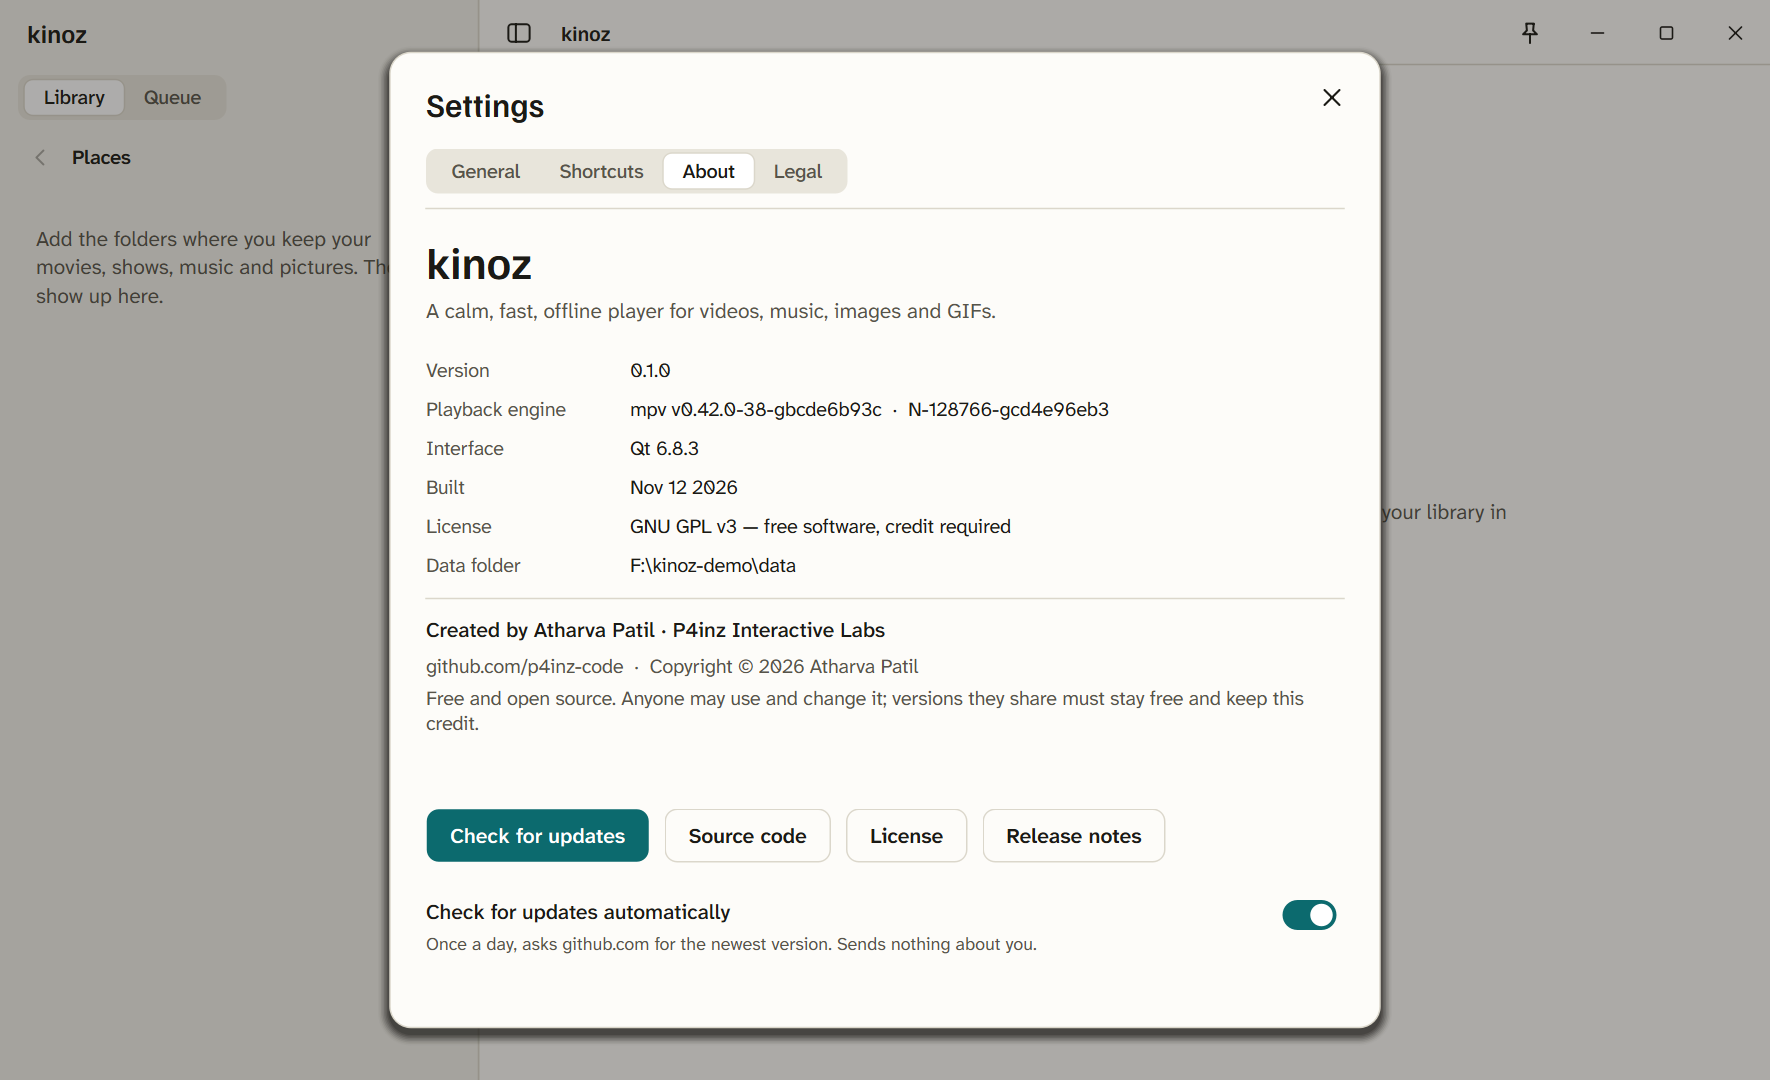
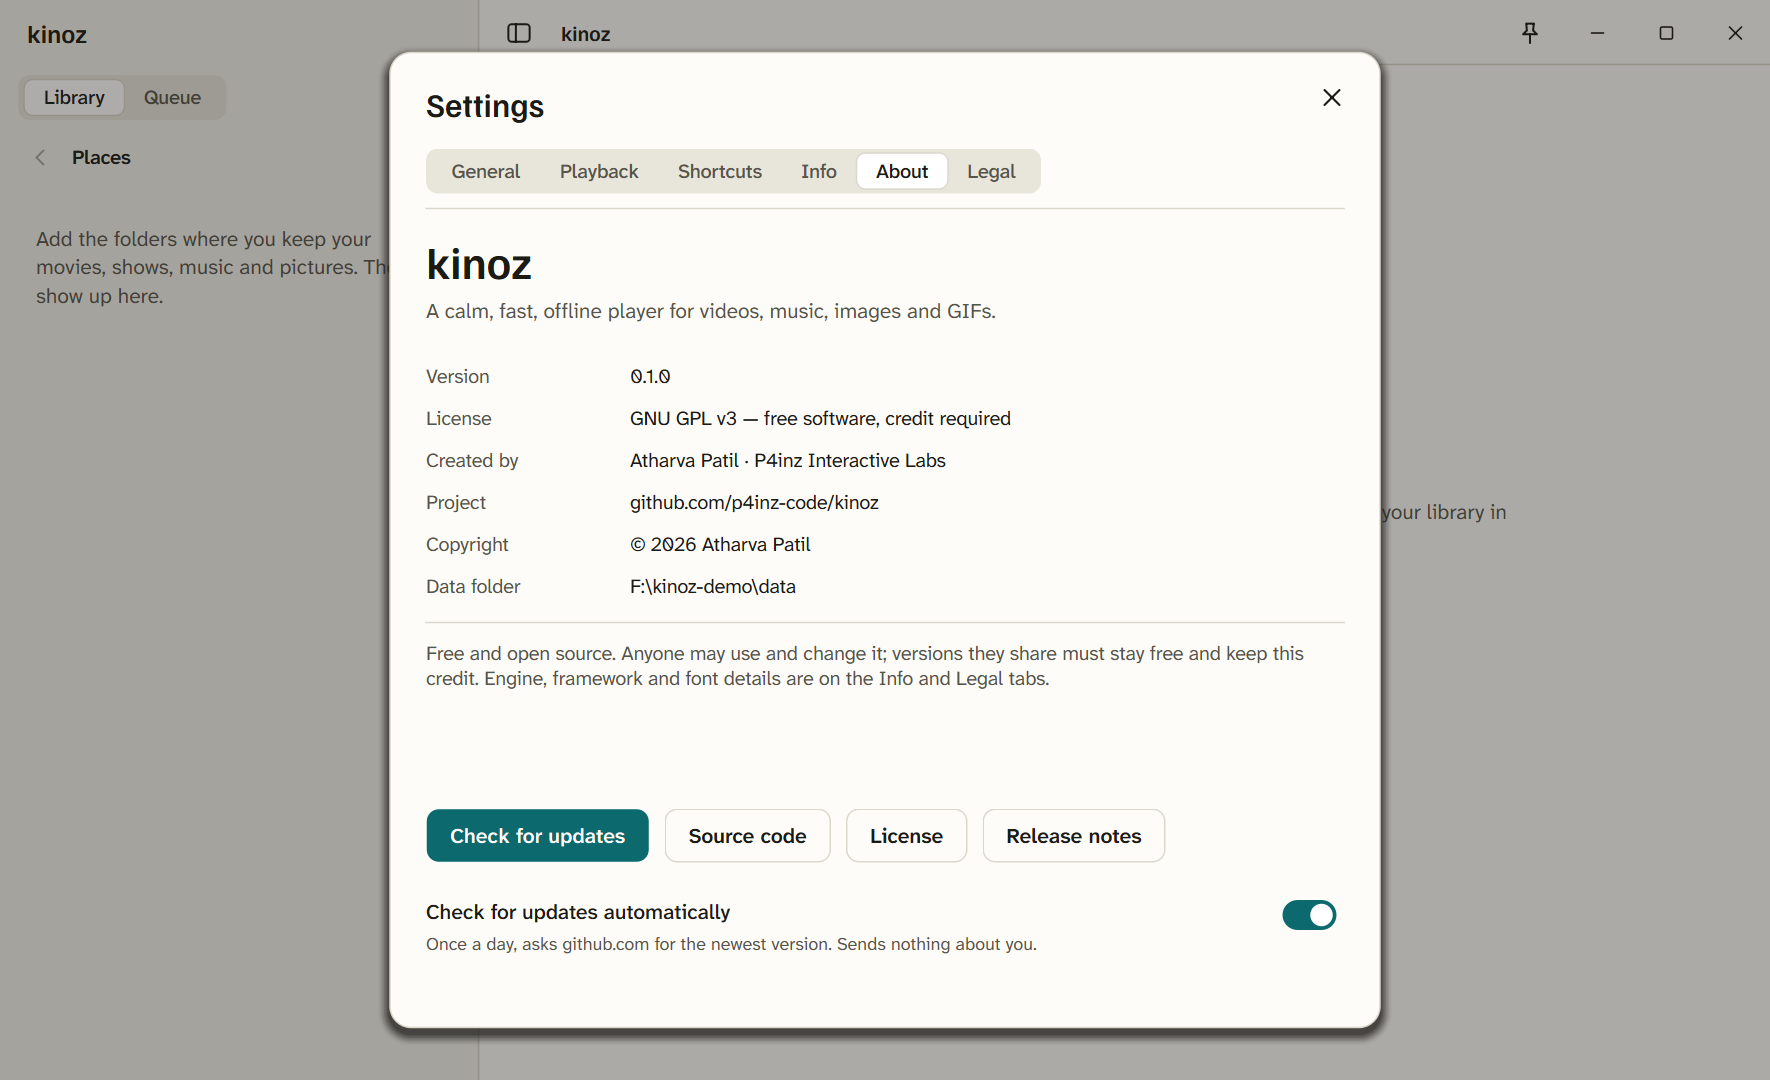
docs: refresh README screenshots, changelog and known issues

Changed region(s): [[0.2175, 0.3361, 0.7458, 0.6722], [0.3107, 0.1222, 0.5904, 0.1833], [0.2175, 0.3361, 0.3107, 0.55]]

diff --git a/README.md b/README.md
@@ -18,7 +18,7 @@ kinoz plays almost anything with no codec packs, keeps your library one click aw
 
 ## Screenshots
 
-These are the app's own screens, rendered by the app itself (the first-run state, with no media loaded).
+These are the app's own screens, rendered by the app itself (first-run state, no media loaded).
 
 <table>
   <tr>
@@ -33,29 +33,40 @@ These are the app's own screens, rendered by the app itself (the first-run state
   </tr>
   <tr>
     <td width="50%">
-      <img src="assets/screenshots/settings-light.png" alt="Settings" width="100%">
-      <p align="center"><em>Settings</em></p>
+      <img src="assets/screenshots/settings-light.png" alt="Settings: theme, accent colour, animations, glass effect, density" width="100%">
+      <p align="center"><em>Settings: theme, accent, animations on/off, glass</em></p>
     </td>
     <td width="50%">
-      <img src="assets/screenshots/about-light.png" alt="About: version, engine, license, credit, updates" width="100%">
+      <img src="assets/screenshots/settings-playback-light.png" alt="Settings: playback options" width="100%">
+      <p align="center"><em>Playback: resume, seek steps, speed, slideshow…</em></p>
+    </td>
+  </tr>
+  <tr>
+    <td width="50%">
+      <img src="assets/screenshots/settings-shortcuts-light.png" alt="Every keyboard shortcut, listed in Settings" width="100%">
+      <p align="center"><em>Every shortcut is listed, and editable</em></p>
+    </td>
+    <td width="50%">
+      <img src="assets/screenshots/about-light.png" alt="About: version, license, credit, updates" width="100%">
       <p align="center"><em>About: everything in one place</em></p>
     </td>
   </tr>
 </table>
 
 ---
-
 ## What kinoz does
 
 - **One player for everything.** Video, audio, images and animated GIFs open in the same window; the stage adapts to what you play. Built on libmpv/FFmpeg, so MKV, MP4, AVI, WebM, HEVC, FLAC, MP3, SRT, ASS and most other formats just work.
 - **A library that stays out of the way.** A sidebar with your folders, thumbnails, list or grid view, a type filter, search, sort and a drag-reorderable queue. Hover the seek bar to see a frame preview. Resume picks up where you left off, per file.
 - **`Ctrl+K` command palette.** Search your whole library and every command from the keyboard.
-- **Playback tools.** Speed 0.25×–4× with pitch correction, frame step, subtitle and audio-track menus, subtitle delay and size, picture adjust (brightness, contrast, saturation, gamma, hue), a 10-band equalizer with presets, a loudness normalizer, output-device picker.
+- **Playback tools.** Speed 0.25×–4× with pitch correction, A-B loop, sleep timer, aspect ratio, audio and subtitle sync, frame step, subtitle and audio-track menus, subtitle delay and size, picture adjust (brightness, contrast, saturation, gamma, hue), a 10-band equalizer with presets, a loudness normalizer, output-device picker.
 - **Images and GIFs.** Zoom, pan, rotate, and browse a folder with the arrow keys.
 - **Annotate any frame.** Pause or open an image, draw with pen, highlighter, arrow, shapes and text, then export a full-resolution PNG or copy it.
-- **Glass and metal, calmly.** The floating control bar blurs the video behind it; accents are liquid-metal. Light and dark follow your system, or pick one.
+- **Glass and metal, calmly.** The floating control bar blurs the video behind it; accents are liquid-metal. Light and dark follow your system, six accent colours, and a real **animations off** switch that makes nothing move.
 - **Built for heavy use.** Several independent windows (`Ctrl+N`), a mini always-on-top player, a minimized video keeps its sound but stops decoding the picture, a broken file is skipped instead of stopping the queue, and a built-in `--selftest`.
-- **Familiar keys.** Windows Media Player-style shortcuts, editable in a JSON file.
+- **Familiar keys.** Windows Media Player-style shortcuts, all listed in Settings and editable in a JSON file.
+- **High resolution.** 4K and 8K frames decode and render (tested with synthetic 3840×2160 and 7680×4320 sources); big frames get a larger read-ahead buffer and high-quality scaling.
+- **Hardened.** Plays local files only: no external tools, scripts or playlist references are run; a crash leaves a small dump in the logs folder.
 - **Updates you control.** An optional update check against this repository's Releases, verified with SHA-256, installed only when you press the button.
 
 ## What kinoz does *not* do

diff --git a/CHANGELOG.md b/CHANGELOG.md
@@ -25,6 +25,13 @@ First version. Windows build is the one that has been run and tested; the macOS 
 **Tools**
 - Annotate a frame or image (pen, highlighter, arrow, shapes, text) and export a full-resolution PNG, or copy it.
 
+**Settings and polish**
+- Settings: General (theme, six accent colours, animations System/On/Off, glass, density, hardware decoding, safe fullscreen), Playback (resume, autoplay, queue folder, normalize, starting speed, seek steps, volume step, controls auto-hide, slideshow), Shortcuts (every key and mouse action, with a keymap.json editor), Info (system, graphics, engine, current file, formats, storage, copy diagnostics), About, Legal.
+- A-B loop, sleep timer, aspect ratio, audio and subtitle sync, show in folder, copy path.
+- Open/close fades and soft menu animations (all removed when animations are off).
+- 4K and 8K handling: larger read-ahead for big frames and high-quality downscaling.
+- Hardening: no external tools or scripts, no playlist references, crash dumps for diagnosis.
+
 **Everyday**
 - Several independent windows (`Ctrl+N`); a minimized video keeps playing sound without decoding the picture.
 - Errors are shown plainly; a broken file is skipped instead of stopping the queue.

diff --git a/docs/KNOWN_ISSUES.md b/docs/KNOWN_ISSUES.md
@@ -9,6 +9,7 @@ An honest list of what isn't finished or hasn't been verified yet.
 | Code signing | Not signed yet: SmartScreen / Gatekeeper warn on first run. Verify the SHA-256 from the release page. |
 | System media controls | Media keys work. The Windows "now playing" flyout, macOS Now Playing and Linux MPRIS are not done. |
 | Gapless playback | Not implemented; a short gap can occur between tracks. |
+| 4K / 8K | Decoding and rendering is tested with synthetic 4K and 8K sources and passes. Real 8K HEVC/AV1 files with hardware decode have not been tried; very high bitrates may need a fast disk and GPU. |
 | HEIC / AVIF images | Depends on the bundled FFmpeg build; not tested. |
 | Memory | Around 280 MB per window while playing 1080p. A minimized video drops its picture decoding to save CPU. |
 | Audio without a cover | Shows an icon thumbnail. |
